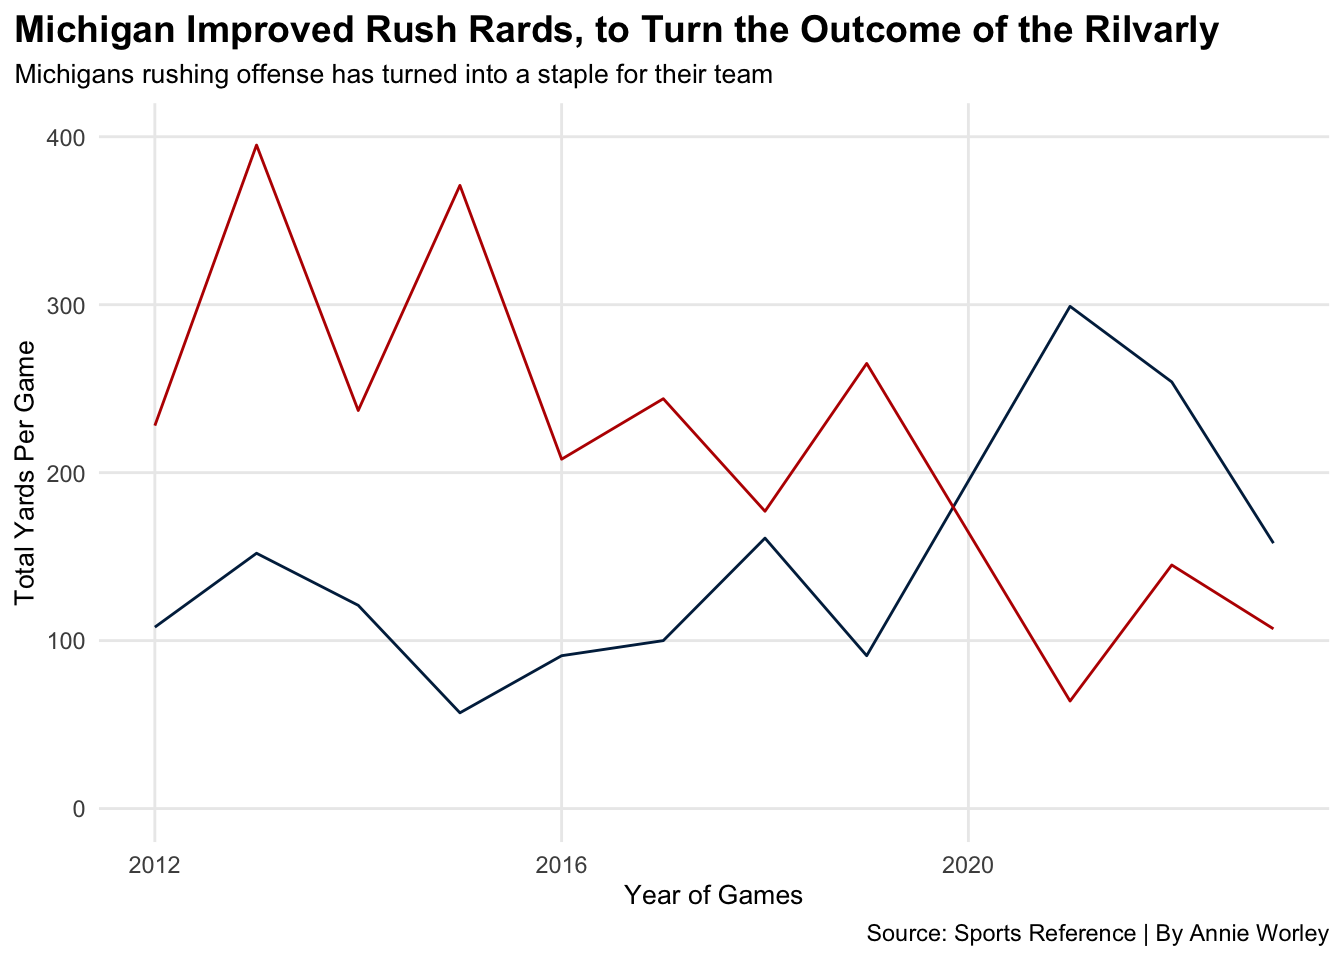
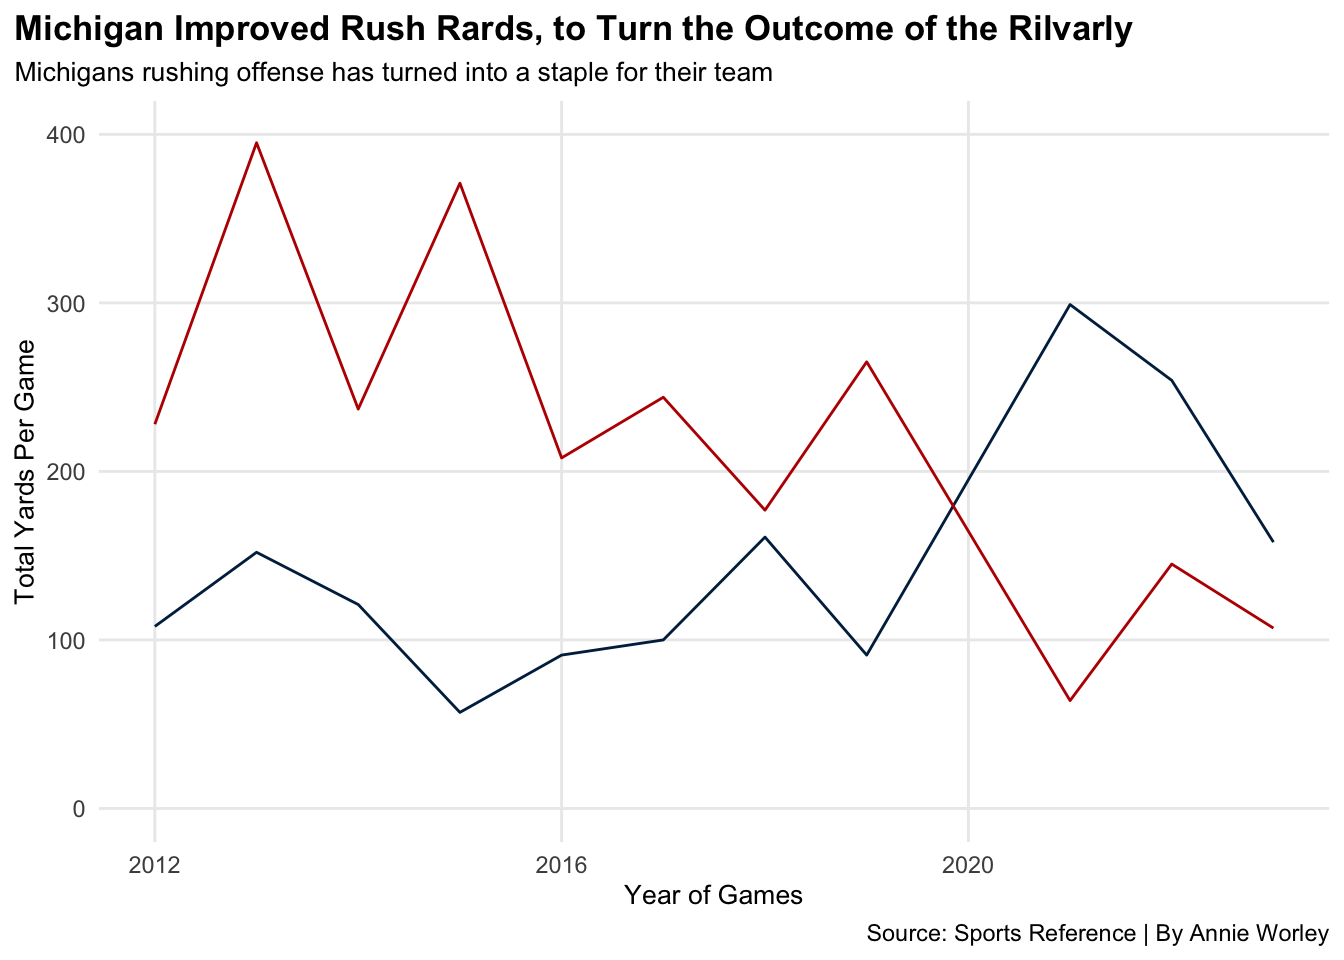
edits

diff --git a/posts/college-football/index.html b/posts/college-football/index.html
@@ -214,7 +214,8 @@ pre > code.sourceCode > span > a:first-child::before { text-decoration: underlin
 <summary>Code</summary>
 <div class="sourceCode cell-code" id="cb3"><pre class="sourceCode r code-with-copy"><code class="sourceCode r"><span id="cb3-1"><a href="#cb3-1" aria-hidden="true" tabindex="-1"></a><span class="fu">library</span>(dplyr)</span>
 <span id="cb3-2"><a href="#cb3-2" aria-hidden="true" tabindex="-1"></a><span class="fu">library</span>(ggplot2)</span>
-<span id="cb3-3"><a href="#cb3-3" aria-hidden="true" tabindex="-1"></a><span class="fu">library</span>(ggtext)</span></code><button title="Copy to Clipboard" class="code-copy-button"><i class="bi"></i></button></pre></div>
+<span id="cb3-3"><a href="#cb3-3" aria-hidden="true" tabindex="-1"></a><span class="fu">library</span>(ggtext)</span>
+<span id="cb3-4"><a href="#cb3-4" aria-hidden="true" tabindex="-1"></a><span class="fu">library</span>(gt)</span></code><button title="Copy to Clipboard" class="code-copy-button"><i class="bi"></i></button></pre></div>
 </details>
 </div>
 <p>How has Michigan’s football team beaten Ohio State the last three years? In previous years from 2012 - 2019, Michigan lost to Ohio State eight consecutive years.</p>
@@ -289,7 +290,7 @@ Specify the column types or set `show_col_types = FALSE` to quiet this message.
 <span id="cb10-11"><a href="#cb10-11" aria-hidden="true" tabindex="-1"></a>    <span class="at">subtitle=</span><span class="st">"Michigans rushing offense has turned into a staple for their team"</span>, </span>
 <span id="cb10-12"><a href="#cb10-12" aria-hidden="true" tabindex="-1"></a>    <span class="at">caption=</span><span class="st">"Source: Sports Reference | By Annie Worley"</span>) <span class="sc">+</span></span>
 <span id="cb10-13"><a href="#cb10-13" aria-hidden="true" tabindex="-1"></a>  <span class="fu">theme</span>(</span>
-<span id="cb10-14"><a href="#cb10-14" aria-hidden="true" tabindex="-1"></a>    <span class="at">plot.title =</span> <span class="fu">element_text</span>(<span class="at">size =</span> <span class="dv">14</span>, <span class="at">face =</span> <span class="st">"bold"</span>), </span>
+<span id="cb10-14"><a href="#cb10-14" aria-hidden="true" tabindex="-1"></a>    <span class="at">plot.title =</span> <span class="fu">element_text</span>(<span class="at">size =</span> <span class="dv">13</span>, <span class="at">face =</span> <span class="st">"bold"</span>, <span class="at">color =</span> <span class="st">"black"</span>), </span>
 <span id="cb10-15"><a href="#cb10-15" aria-hidden="true" tabindex="-1"></a>    <span class="at">axis.title =</span> <span class="fu">element_text</span>(<span class="at">size =</span> <span class="dv">10</span>), </span>
 <span id="cb10-16"><a href="#cb10-16" aria-hidden="true" tabindex="-1"></a>    <span class="at">plot.subtitle =</span> <span class="fu">element_text</span>(<span class="at">size=</span><span class="dv">10</span>), </span>
 <span id="cb10-17"><a href="#cb10-17" aria-hidden="true" tabindex="-1"></a>    <span class="at">panel.grid.minor =</span> <span class="fu">element_blank</span>(),</span>
@@ -349,7 +350,7 @@ dbl (3): Year, Total Penalties, Yards Lost
 <span id="cb16-9"><a href="#cb16-9" aria-hidden="true" tabindex="-1"></a>    <span class="at">subtitle=</span><span class="st">"In a lot of the games the number of penlties have not been a significant factor"</span>, </span>
 <span id="cb16-10"><a href="#cb16-10" aria-hidden="true" tabindex="-1"></a>    <span class="at">caption=</span><span class="st">"Source: Sports Reference | By Annie Worley"</span>) <span class="sc">+</span></span>
 <span id="cb16-11"><a href="#cb16-11" aria-hidden="true" tabindex="-1"></a>  <span class="fu">theme</span>(</span>
-<span id="cb16-12"><a href="#cb16-12" aria-hidden="true" tabindex="-1"></a>    <span class="at">plot.title =</span> <span class="fu">element_text</span>(<span class="at">size =</span> <span class="dv">13</span>, <span class="at">face =</span> <span class="st">"bold"</span>), </span>
+<span id="cb16-12"><a href="#cb16-12" aria-hidden="true" tabindex="-1"></a>    <span class="at">plot.title =</span> <span class="fu">element_text</span>(<span class="at">size =</span> <span class="dv">13</span>, <span class="at">face =</span> <span class="st">"bold"</span>, <span class="at">color =</span> <span class="st">"black"</span>), </span>
 <span id="cb16-13"><a href="#cb16-13" aria-hidden="true" tabindex="-1"></a>    <span class="at">axis.title =</span> <span class="fu">element_text</span>(<span class="at">size =</span> <span class="dv">10</span>), </span>
 <span id="cb16-14"><a href="#cb16-14" aria-hidden="true" tabindex="-1"></a>    <span class="at">plot.subtitle =</span> <span class="fu">element_text</span>(<span class="at">size=</span><span class="dv">10</span>), </span>
 <span id="cb16-15"><a href="#cb16-15" aria-hidden="true" tabindex="-1"></a>    <span class="at">panel.grid.minor =</span> <span class="fu">element_blank</span>(),</span>
@@ -400,7 +401,7 @@ dbl (2): Year, Turnovers
 <span id="cb20-10"><a href="#cb20-10" aria-hidden="true" tabindex="-1"></a>    <span class="at">subtitle=</span><span class="st">"Michigan made the changes to be able to help them dominate"</span>, </span>
 <span id="cb20-11"><a href="#cb20-11" aria-hidden="true" tabindex="-1"></a>    <span class="at">caption=</span><span class="st">"Source: Sports Reference | By Annie Worley"</span>) <span class="sc">+</span></span>
 <span id="cb20-12"><a href="#cb20-12" aria-hidden="true" tabindex="-1"></a>  <span class="fu">theme</span>(</span>
-<span id="cb20-13"><a href="#cb20-13" aria-hidden="true" tabindex="-1"></a>    <span class="at">plot.title =</span> <span class="fu">element_text</span>(<span class="at">size =</span> <span class="dv">12</span>, <span class="at">face =</span> <span class="st">"bold"</span>), </span>
+<span id="cb20-13"><a href="#cb20-13" aria-hidden="true" tabindex="-1"></a>    <span class="at">plot.title =</span> <span class="fu">element_text</span>(<span class="at">size =</span> <span class="dv">12</span>, <span class="at">face =</span> <span class="st">"bold"</span>, <span class="at">color =</span> <span class="st">"black"</span>), </span>
 <span id="cb20-14"><a href="#cb20-14" aria-hidden="true" tabindex="-1"></a>    <span class="at">axis.title =</span> <span class="fu">element_text</span>(<span class="at">size =</span> <span class="dv">10</span>), </span>
 <span id="cb20-15"><a href="#cb20-15" aria-hidden="true" tabindex="-1"></a>    <span class="at">plot.subtitle =</span> <span class="fu">element_text</span>(<span class="at">size=</span><span class="dv">10</span>), </span>
 <span id="cb20-16"><a href="#cb20-16" aria-hidden="true" tabindex="-1"></a>    <span class="at">panel.grid.minor =</span> <span class="fu">element_blank</span>(),</span>

diff --git a/index.html b/index.html
@@ -210,7 +210,7 @@ window.Quarto = {
 
 <div class="quarto-listing quarto-listing-container-default" id="listing-listing">
 <div class="list quarto-listing-default">
-<div class="quarto-post image-right" data-index="0" data-categories="Rm9vdGJhbGw=" data-listing-date-sort="1731823200000" data-listing-file-modified-sort="1731874910397" data-listing-date-modified-sort="NaN" data-listing-reading-time-sort="4" data-listing-word-count-sort="705">
+<div class="quarto-post image-right" data-index="0" data-categories="Rm9vdGJhbGw=" data-listing-date-sort="1731823200000" data-listing-file-modified-sort="1731875801775" data-listing-date-modified-sort="NaN" data-listing-reading-time-sort="4" data-listing-word-count-sort="714">
 <div class="thumbnail">
 <p><a href="./posts/college-football/index.html" class="no-external"></a></p><a href="./posts/college-football/index.html" class="no-external">
 <p><img loading="lazy" src="./posts/college-football/rivalryimage.jpeg" class="thumbnail-image"></p>
